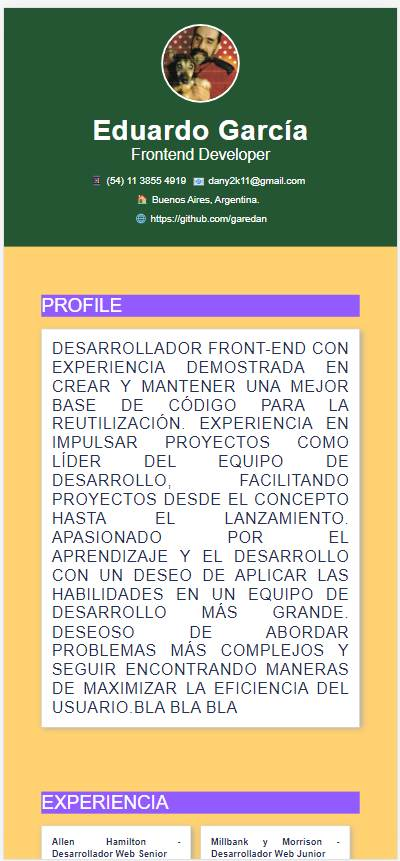
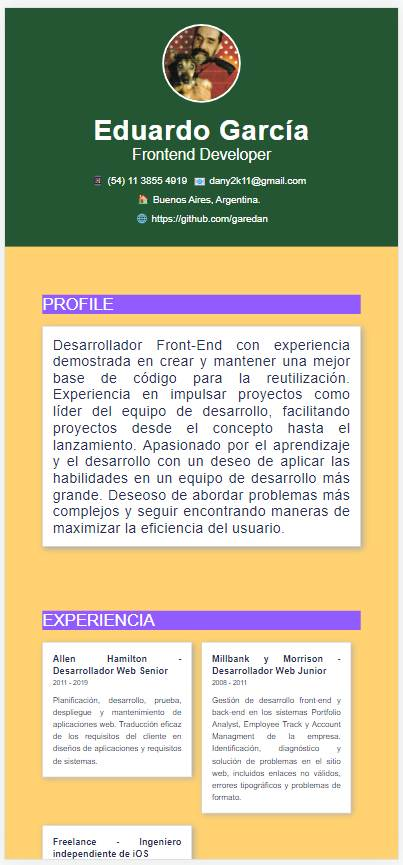
Modificando el estilo general

diff --git a/src/styles/components/About.css b/src/styles/components/About.css
@@ -29,13 +29,11 @@
     font-size: 22px;
     margin-right: 15px;
     font-weight: 300;
-    /* font-style: italic; */
     text-align: center;
-    color: white;
+    color: #000;
 }
 .about-title {
     font-size: 55px;
-    /* text-transform: uppercase; */
     letter-spacing: 2px;
     color: white;
 }
@@ -44,7 +42,10 @@
     flex-direction: column;
     margin-top: 25px;
     margin-bottom: 15px;
-    color: white;
+    color: #000;
+    background: #ffd171;
+    border-radius: 20px;
+    padding: 10px;
 }
 .contact-information div {
     display: inline-flex;
@@ -53,7 +54,7 @@
 }
 .contact-information a {
     font-size: 22px;
-    color: white;
+    color: #000;
     text-decoration: none;
     cursor: pointer;
     margin-top: 15px;

diff --git a/src/styles/components/Skills.css b/src/styles/components/Skills.css
@@ -5,6 +5,9 @@
     background-color: white;
     border: 1px solid #BFBFBF;
     box-shadow: 5px 5px 15px #aaaaaa;
+    display: flex;
+    flex-direction: column;
+    align-items: flex-start;
 }
 
 .skills-title {
@@ -14,16 +17,22 @@
     font-weight: 500;
     background-color: #925bff;
     padding: 10px;
+    margin-bottom: 10px;
 }
 
 .skills-item {
-    display: inline-block;
-    width: 33%;
+    display: flex;
+    flex-direction: row;
+    text-align: center;
+    width: 100%;
     color: #272d53;
     font-size: 20px;
     line-height: 30px;
     text-align: justify;
-    padding: 30px;
+    padding: 0px 35px;
+    flex-wrap: wrap;
+    justify-content: space-between;
+    padding-bottom: 15px;
 }
 
 @media (max-width: 768px) {

diff --git a/src/styles/components/Languages.css b/src/styles/components/Languages.css
@@ -5,6 +5,9 @@
     background-color: white;
     border: 1px solid #BFBFBF;
     box-shadow: 5px 5px 15px #aaaaaa;
+    display: flex;
+    flex-direction: column;
+    align-items: flex-start;
 }
 
 .language-title {
@@ -17,13 +20,15 @@
 }
 
 .language-item {
-    display: inline-block;
+    display: flex;
+    flex-direction: row;
     color: #272d53;
-    font-size: 20px;
+    font-size: 25px;
     line-height: 30px;
-    text-align: justify;
-    padding: 30px;
     width: 50%;
+    align-content: center;
+    justify-content: space-between;
+    margin: auto;
 }
 
 

diff --git a/src/styles/components/Interest.css b/src/styles/components/Interest.css
@@ -4,6 +4,9 @@
     border: 1px solid #bfbfbf;
     box-shadow: 5px 5px 15px #aaa;
     padding-bottom: 30px;
+    display: flex;
+    flex-direction: column;
+    align-items: flex-start;
 }
 
 .interest-title {
@@ -18,12 +21,14 @@
 .interest-container {
     width: 50%;
     color: #272d53;
-    font-size: 20px;
+    font-size: 25px;
     line-height: 30px;
     text-align: justify;
     text-transform: capitalize;
     display: inline-block;
     padding: 30px 30px 0;
+    letter-spacing: 5px;
+    margin: auto;
 }
 
 

diff --git a/src/styles/components/Profile.css b/src/styles/components/Profile.css
@@ -9,18 +9,19 @@
     font-weight: 500;
     margin-bottom: 30px;
     background-color: #925bff;
+    padding: 15px;
 }
 .profile-description {
     font-size: 22px;
     color: #272d53;
     letter-spacing: 1px;
-    /* text-transform: uppercase; */
     line-height: 35px;
     text-align: justify;
     border: 1px solid #BFBFBF;
     box-shadow: 5px 5px 15px #aaaaaa;
-    padding: 25px;
+    padding: 30px;
     background-color: #fff;
+    border-radius: 25px;
 }
 
 @media (max-width: 1200px) {

diff --git a/src/styles/components/Experience.css b/src/styles/components/Experience.css
@@ -8,6 +8,7 @@
     font-weight: 500;
     margin-bottom: 30px;
     background-color: #925bff;
+    padding: 15px;
 }
 
 .experience-item {
@@ -18,11 +19,12 @@
     font-size: 20px;
     margin-bottom: 30px;
     line-height: 30px;
-    text-align: justify;
+    text-align: center;
     border: 1px solid #BFBFBF;
     box-shadow: 5px 5px 15px #aaaaaa;
     padding: 25px;
     background-color: #fff;
+    border-radius: 25px;
 }
 .job-date {
     margin-bottom: 15px;

diff --git a/src/components/About.jsx b/src/components/About.jsx
@@ -24,7 +24,7 @@ export default function About({ name, profession, phone, email, website, address
             {address}
           </h5>
           <a className='About-item' href={website} target='_blank' rel='noreferrer'>
-            <span role='img' aria-label='address'>🌐 </span>
+            <span role='img' aria-label='web'>🌐 </span>
             {website}
           </a>
         </div>

diff --git a/src/components/Academic.jsx b/src/components/Academic.jsx
@@ -1,7 +1,7 @@
 import React from 'react';
 import '../styles/components/Academic.css';
 
-function Academic({ title, academic }) {
+export default function Academic({ title, academic }) {
   return (
     <div className='academic'>
       <h3 className='academic-title'>{title}</h3>
@@ -17,6 +17,3 @@ function Academic({ title, academic }) {
     </div>
   );
 }
-
-export default Academic;
-

diff --git a/src/components/Profile.jsx b/src/components/Profile.jsx
@@ -1,7 +1,7 @@
 import React from 'react';
 import '../styles/components/Profile.css';
 
-function Profile({ description, title }) {
+export default function Profile({ description, title }) {
   return (
     <div className='profile'>
       <h3 className='profile-title'>{title}</h3>
@@ -13,5 +13,3 @@ function Profile({ description, title }) {
     </div>
   );
 }
-
-export default Profile;

diff --git a/src/styles/components/Academic.css b/src/styles/components/Academic.css
@@ -5,6 +5,9 @@
   background-color: white;
   border: 1px solid #BFBFBF;
   box-shadow: 5px 5px 15px #aaaaaa;
+  display: flex;
+  flex-direction: column;
+  align-items: flex-start;
 }
 
 .academic-title {
@@ -15,7 +18,6 @@
   background-color: #925bff;
   padding: 10px;
 }
-
 
 .university {
   margin-bottom: 15px;

diff --git a/src/containers/App.jsx b/src/containers/App.jsx
@@ -60,7 +60,7 @@ const App = () => {
           </div>
           <div className='two-columns'>
             <Experience
-              title='Experiencia'
+              title='Experience'
               experience={experience}
             />
           </div>

diff --git a/src/components/Experience.jsx b/src/components/Experience.jsx
@@ -21,4 +21,3 @@ export default function Experience({ title, experience }) {
     </div>
   );
 }
-
